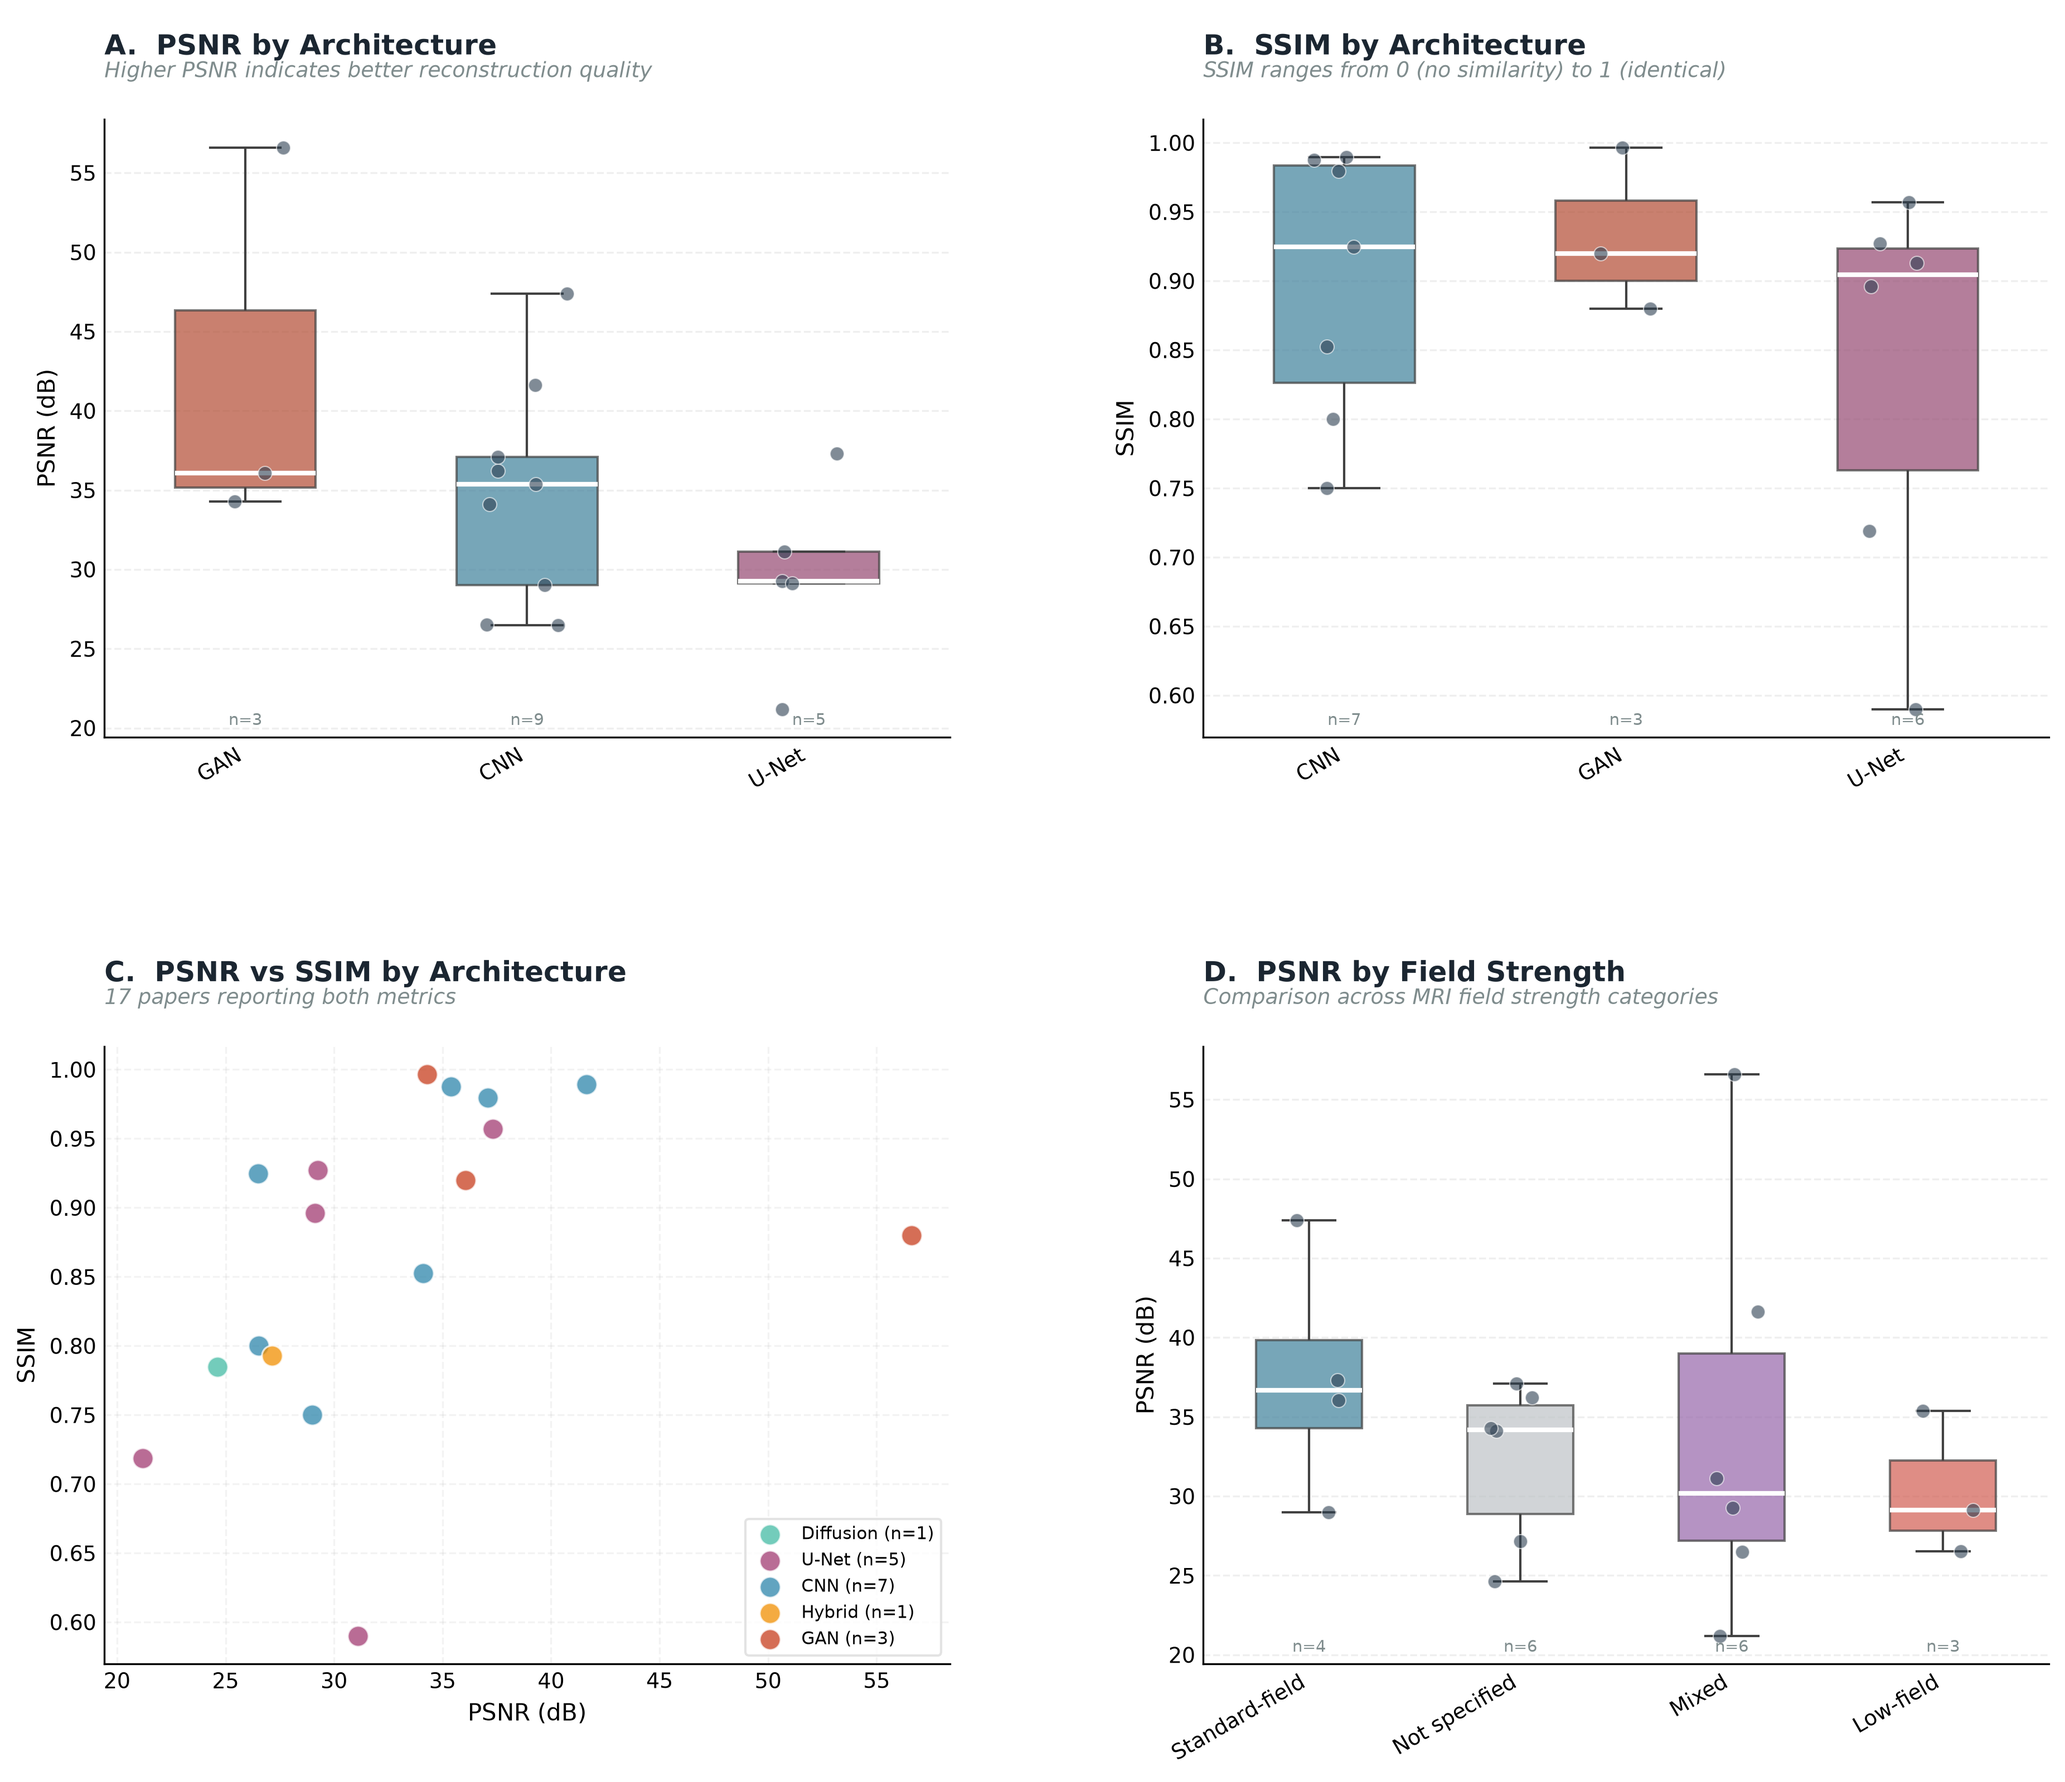
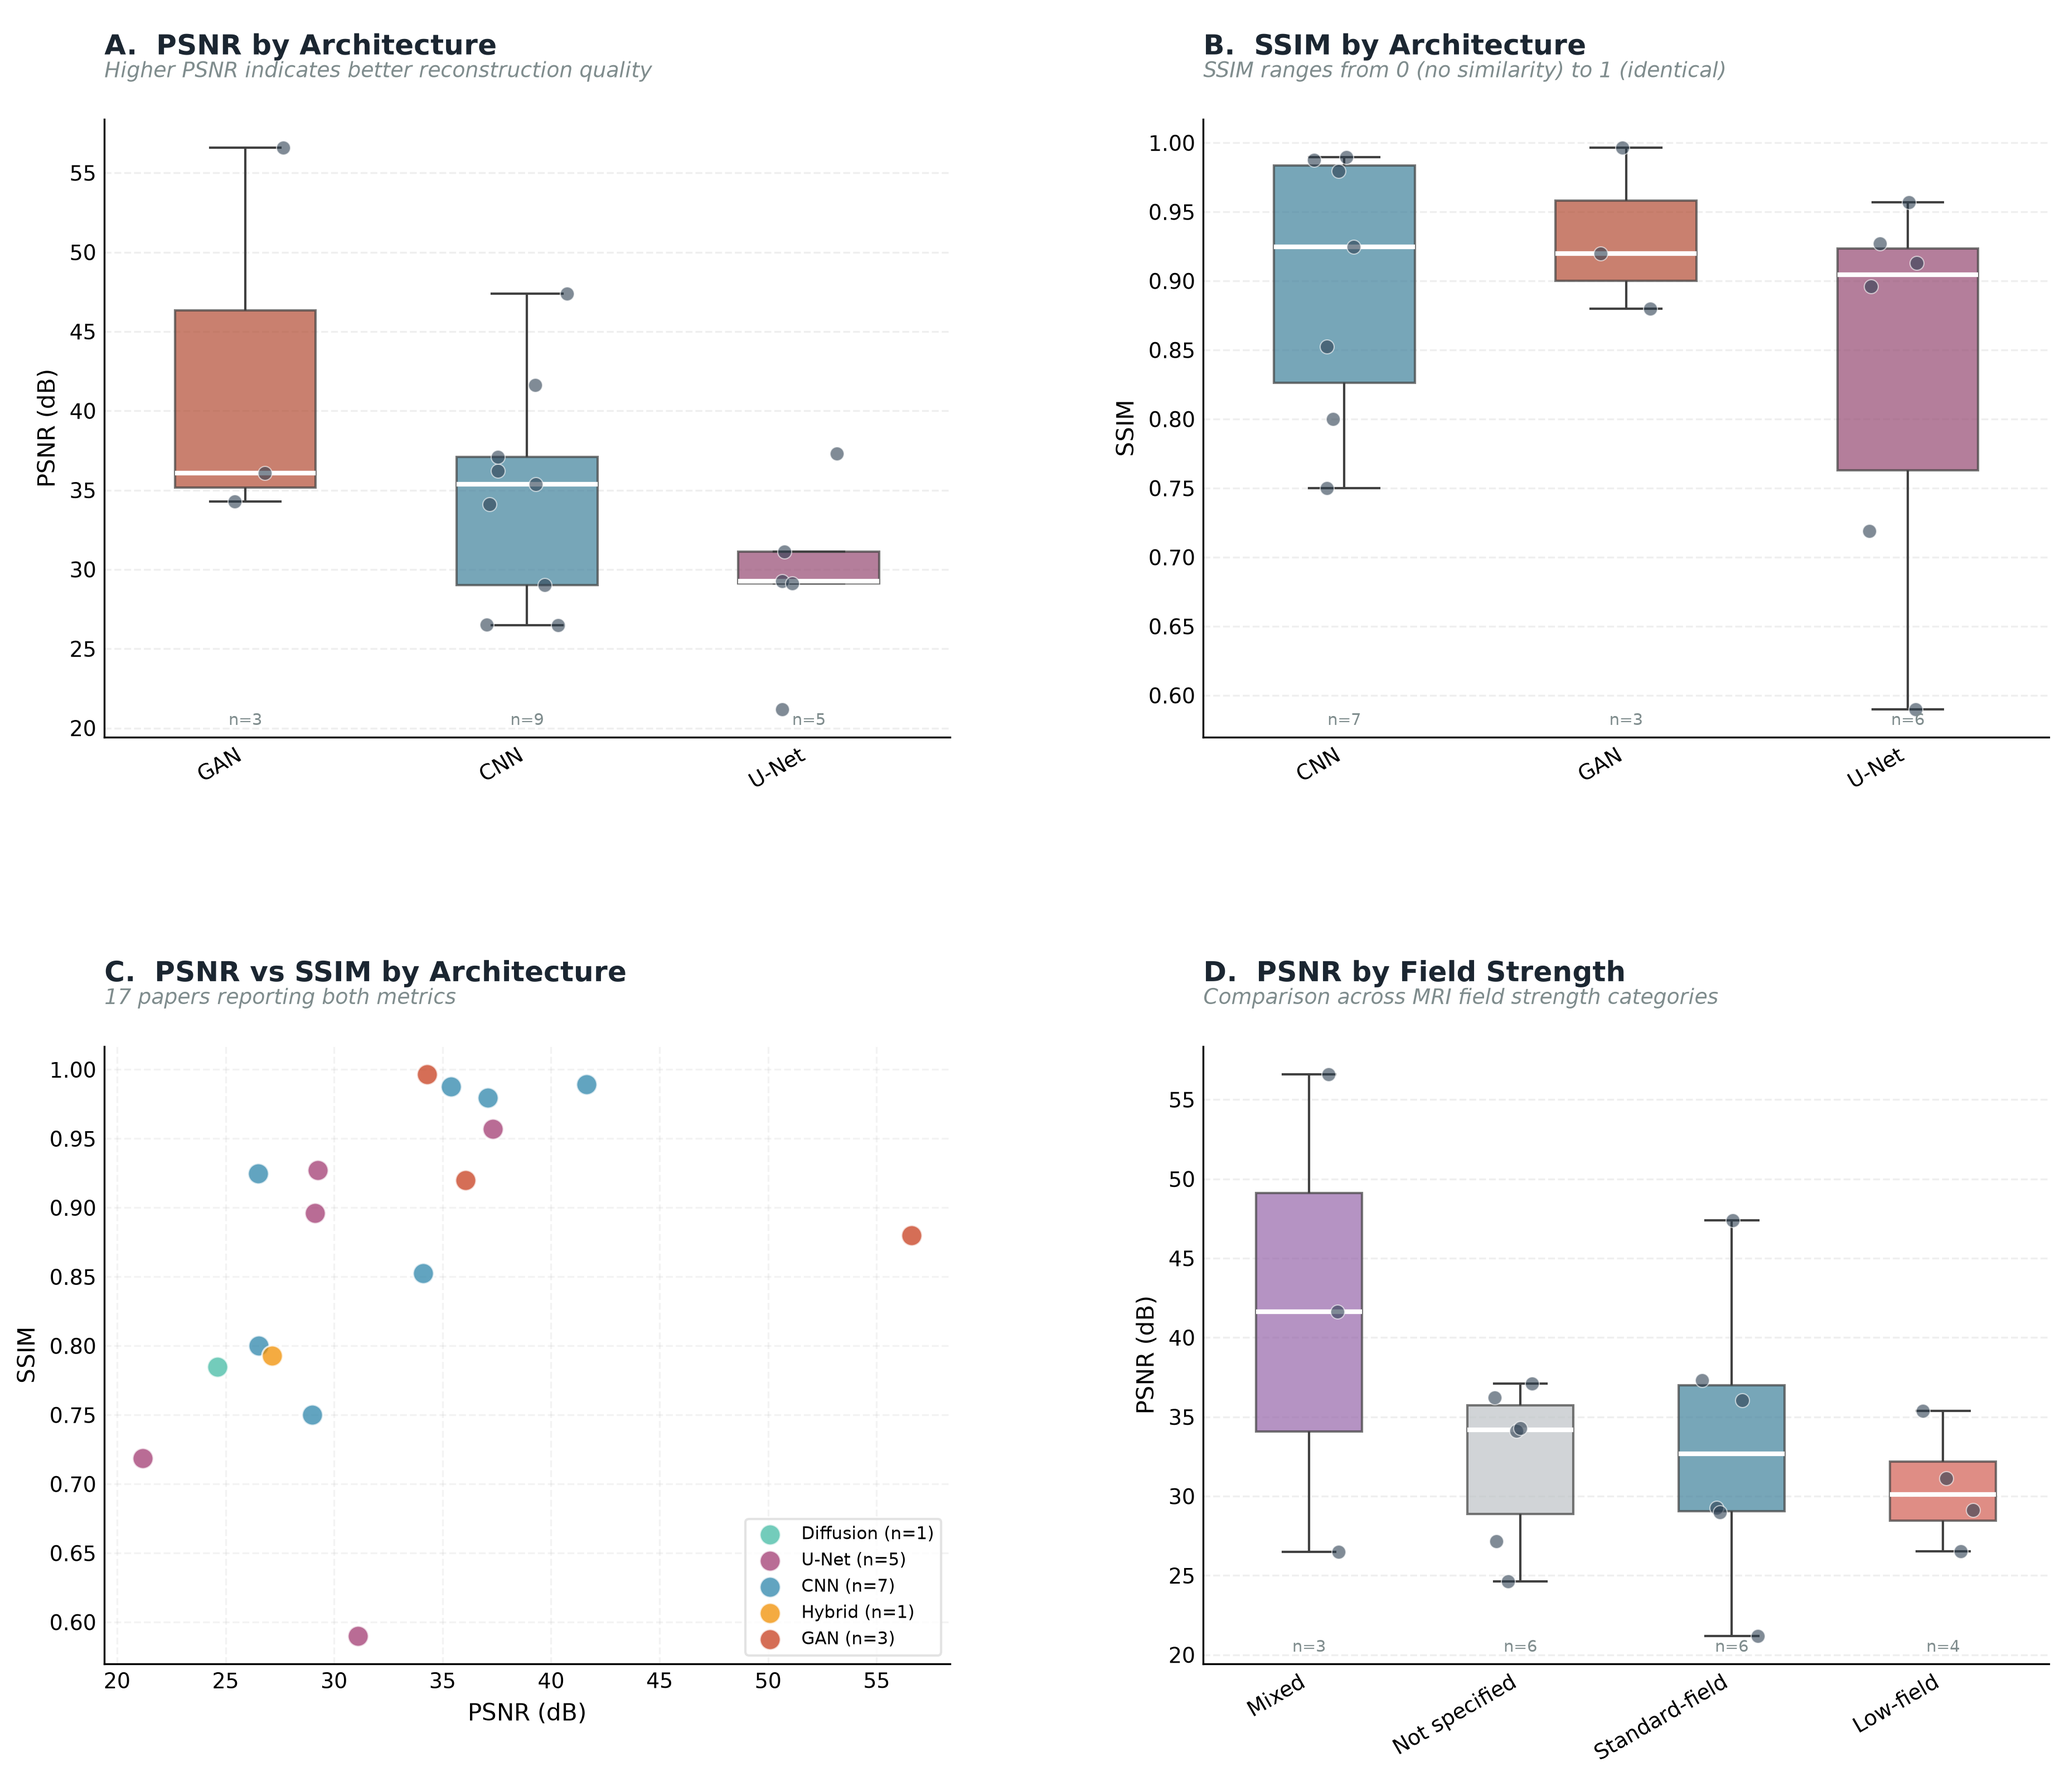
Use one field-strength taxonomy in the figures and the analyses
fig4_performance_comparison (manuscript Figure 3) took Field_Strength_Norm
from review_metrics.normalize_field_category, which skipped the curated map
and matched 3T as low-field, so Panel D disagreed with Supplementary Table 10
and table3d. Both modules now share the curated labels, pinned by a test.

diff --git a/scripts/analysis/review_metrics.py b/scripts/analysis/review_metrics.py
@@ -92,8 +92,37 @@ def _first_evidence(text: str, patterns: list[str]) -> str:
     return ""
 
 
+# Mirrors FIELD_STRENGTH_MAP in scripts/figures/mapper.py, which encodes the
+# manuscript schema: 3 T is Standard-field, and a low-field acquisition mapped to
+# a standard- or high-field target is Low-field rather than Mixed. The two copies
+# are pinned together by tests/analysis/test_field_strength_taxonomy.py.
+FIELD_STRENGTH_LABELS = {
+    "Not_specified": "Not specified",
+    "Standard-field": "Standard-field",
+    "standard field": "Standard-field",
+    "3T MRI": "Standard-field",
+    "1.5 and 3T MRI": "Standard-field",
+    "1.5T and 3T MRI scanners": "Standard-field",
+    "1.5T and 3T": "Standard-field",
+    "Low-field": "Low-field",
+    "Low-Field MRI": "Low-field",
+    "Low-Field": "Low-field",
+    "Low_field (0.1T)": "Low-field",
+    "Portable Ultra-Low Field (0.064 Tesla)": "Low-field",
+    "Ultra-low-field (64 mT / 0.064 T) vs. High-field (3.0 T)": "Low-field",
+    "Low field (64 mT) and Standard field (3 T)": "Low-field",
+    "Low-field (0.4T) + High-field reference (3T)": "Low-field",
+    "Mixed (0.36 T and 1.5 T)": "Mixed",
+    "Mixed": "Mixed",
+    "High-field": "High-field",
+}
+
+
 def normalize_field_category(value: object) -> str:
     """Apply one aggregate field-strength taxonomy to the raw field label."""
+    mapped = FIELD_STRENGTH_LABELS.get(str(value).strip()) if value is not None else None
+    if mapped is not None:
+        return mapped
     text = _lower(value)
     if not text or text in {"not reported", "not_specified", "nan"}:
         return "Not specified"

diff --git a/tests/analysis/test_field_strength_taxonomy.py b/tests/analysis/test_field_strength_taxonomy.py
@@ -1,0 +1,31 @@
+"""The two field-strength taxonomies must stay identical.
+
+scripts/figures/mapper.py drives the descriptive tables and figures, while
+scripts/analysis/review_metrics.py drives the promoted reviewer analyses. When
+they disagree, the same study is counted in two different field-strength
+categories, which is how Figure 3D once contradicted Supplementary Table 10.
+"""
+
+import sys
+from pathlib import Path
+
+ROOT = Path(__file__).resolve().parents[2]
+sys.path.insert(0, str(ROOT / "scripts" / "analysis"))
+sys.path.insert(0, str(ROOT / "scripts" / "figures"))
+
+
+def test_curated_field_strength_maps_agree():
+    from review_metrics import FIELD_STRENGTH_LABELS
+    from mapper import FIELD_STRENGTH_MAP
+
+    assert FIELD_STRENGTH_LABELS == FIELD_STRENGTH_MAP
+
+
+def test_both_normalizers_agree_on_every_raw_value():
+    import pandas as pd
+    from review_metrics import normalize_field_category
+    from mapper import normalize_field_strength
+
+    raw = pd.read_csv(ROOT / "data" / "data-clean.csv")["Field_Strength_Type"]
+    for value in raw.dropna().unique():
+        assert normalize_field_category(value) == normalize_field_strength(value), value
